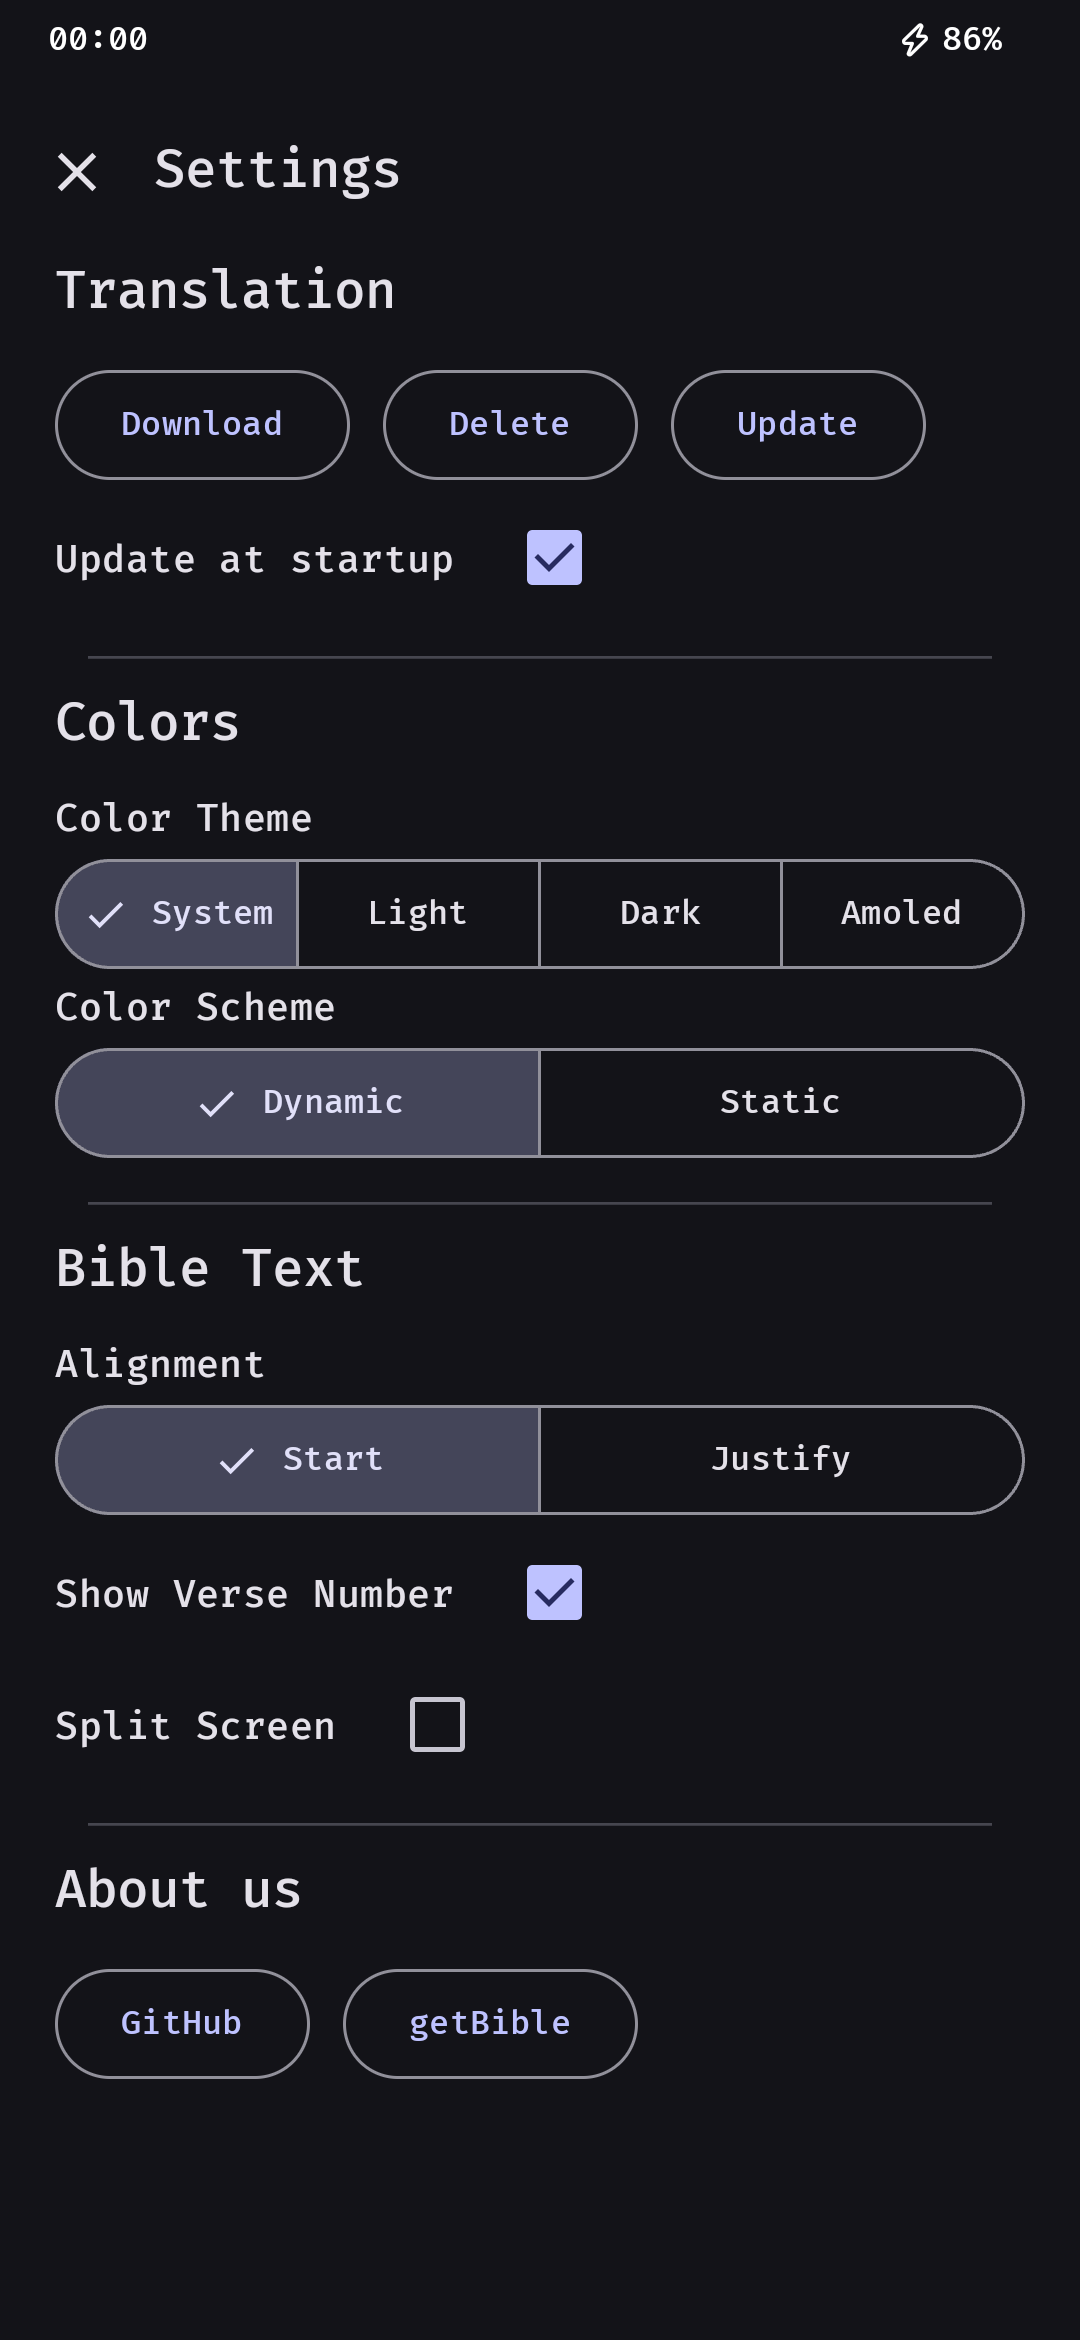
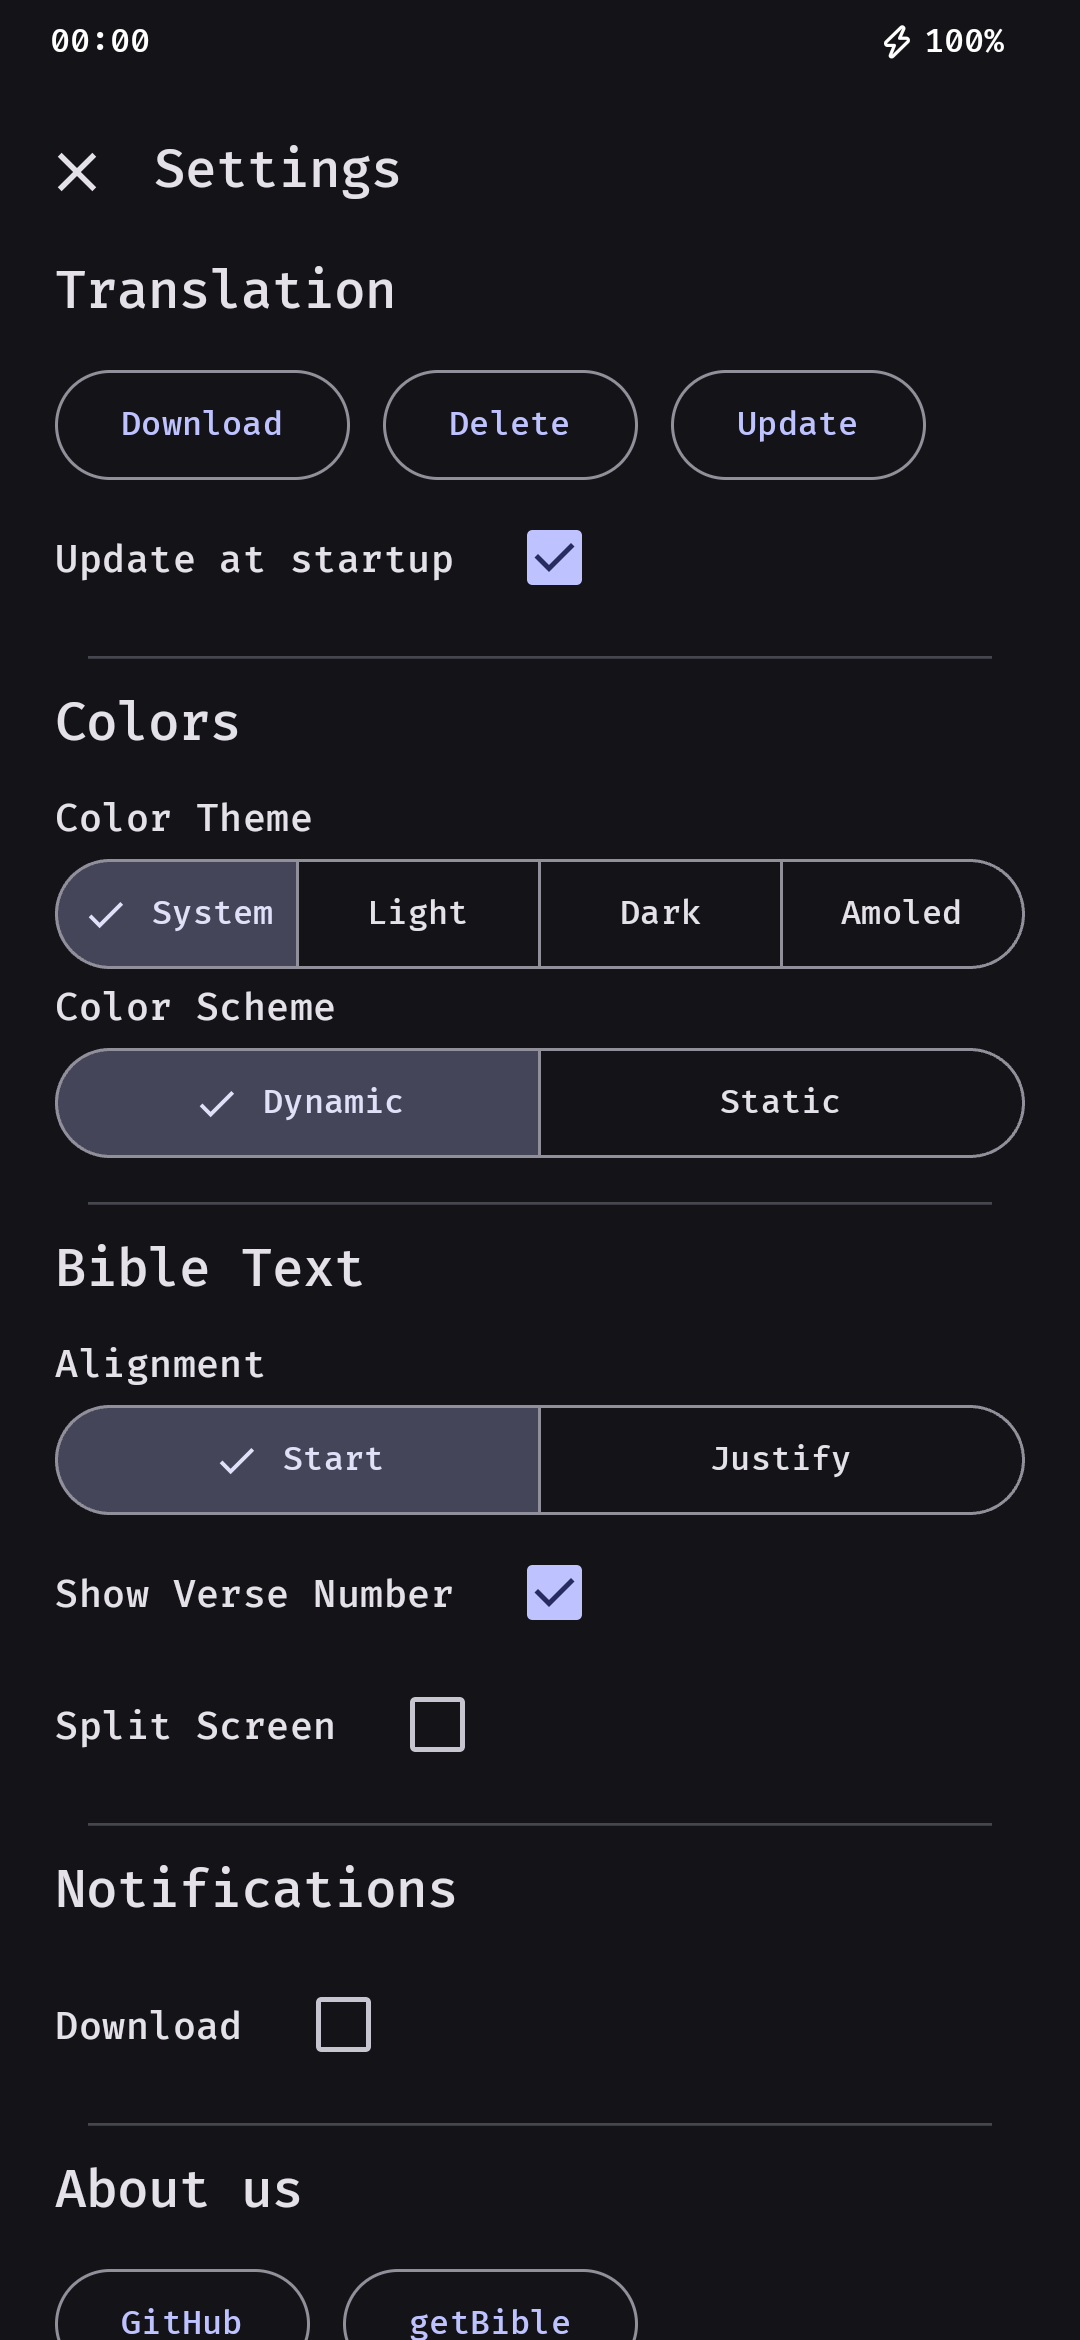
chore: bump to 1.5.0

diff --git a/CHANGELOG.md b/CHANGELOG.md
@@ -2,6 +2,22 @@
 
 All notable changes to this project will be documented in this file.
 
+## [1.5.0] - 2024-12-19
+
+### 🚀 Features
+
+- Toggle download notification visibility
+- Display language of translations
+
+### 📚 Documentation
+
+- Update changelog
+- Add GitHub badge
+
+### 🎨 Styling
+
+- Reformat
+
 ## [1.4.2] - 2024-12-15
 
 ### ⚙ Miscellaneous Tasks
